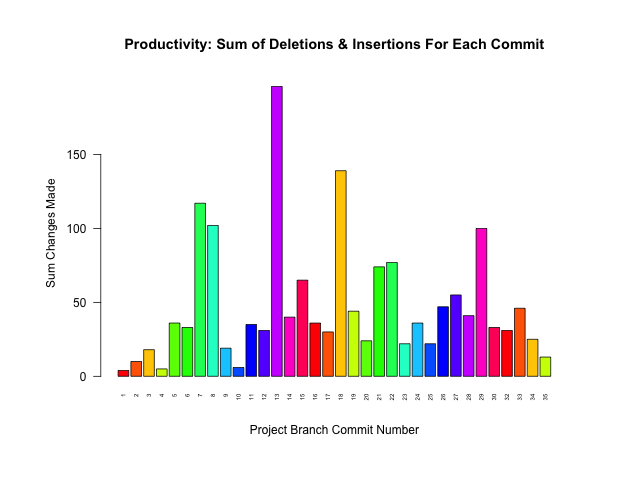
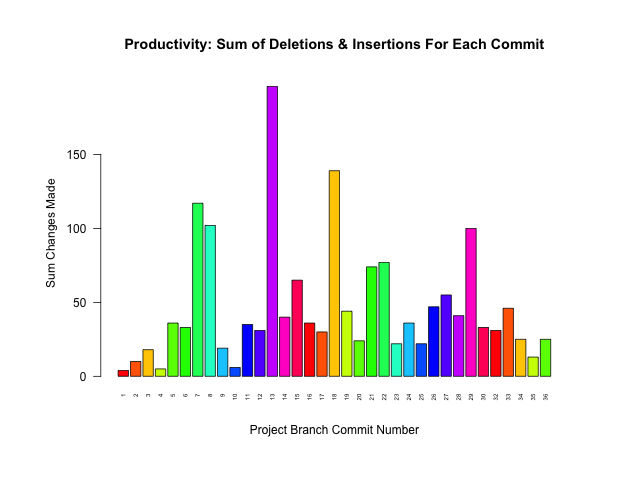
COMMIT #201

Changed region(s): [[0.1875, 0.1562, 0.875, 0.7812], [0.3438, 0.8125, 0.8438, 0.8438]]

diff --git a/README.md b/README.md
@@ -17,8 +17,8 @@ ProjectName::BranchName.data
 
 Project Name | Last Updated | # Commits | # Branches | Branches Merged
 :---|:---:|:---:|:---:|:---:
-[learn_some_C.Plus.Plus](https://github.com/pierremigeon/learn_some_C.Plus.Plus)                    |  2023-06-08  |  35   |  1  |  100%  (1/1)
-[commit_tracker](https://github.com/pierremigeon/commit_tracker)                                    |  2023-06-08  |  199  |  1  |  100%  (1/1)
+[learn_some_C.Plus.Plus](https://github.com/pierremigeon/learn_some_C.Plus.Plus)                    |  2023-06-09  |  36   |  1  |  100%  (1/1)
+[commit_tracker](https://github.com/pierremigeon/commit_tracker)                                    |  2023-06-08  |  200  |  1  |  100%  (1/1)
 [libft](https://github.com/pierremigeon/libft)                                                      |  2023-06-05  |  30   |  2  |  50%   (1/2)
 [ft_printf](https://github.com/pierremigeon/ft_printf)                                              |  2023-06-01  |  37   |  2  |  100%  (2/2)
 [minishell](https://github.com/pierremigeon/minishell)                                              |  2023-05-20  |  78   |  8  |  88%   (7/8)
